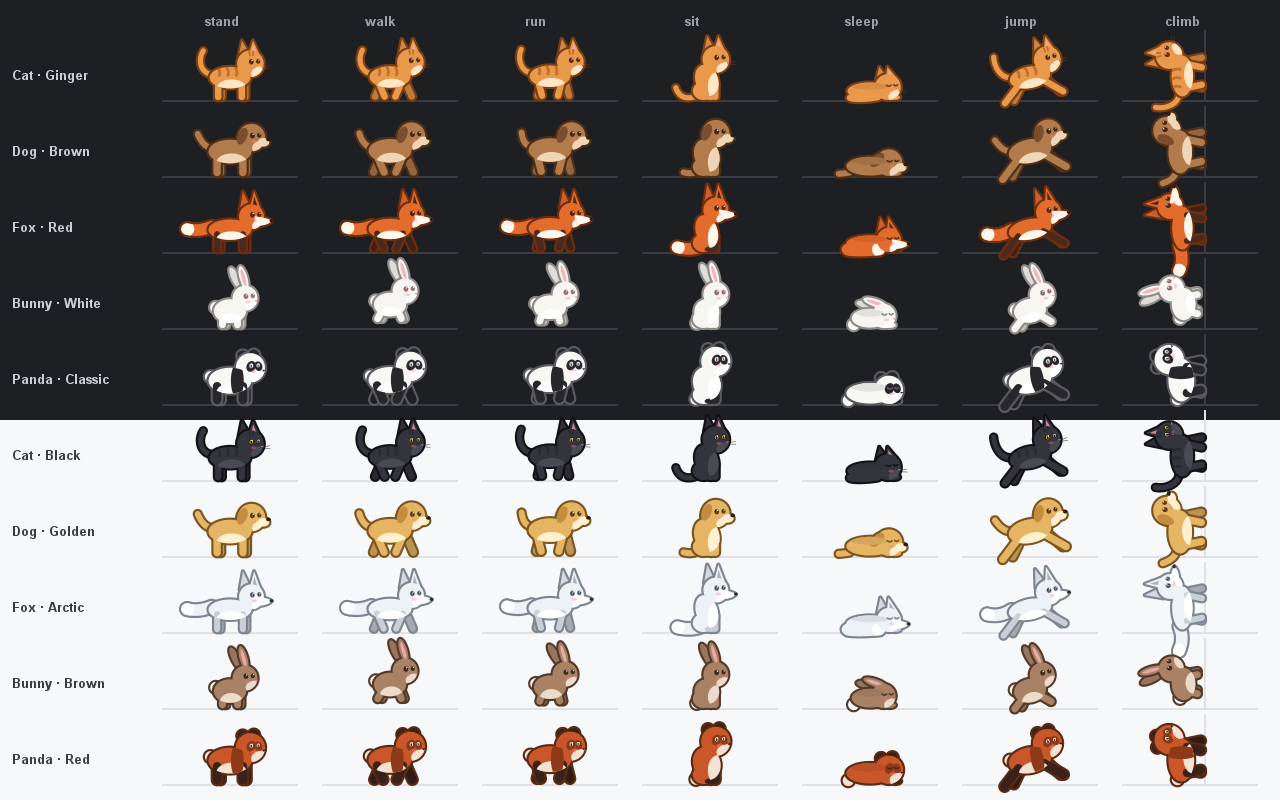
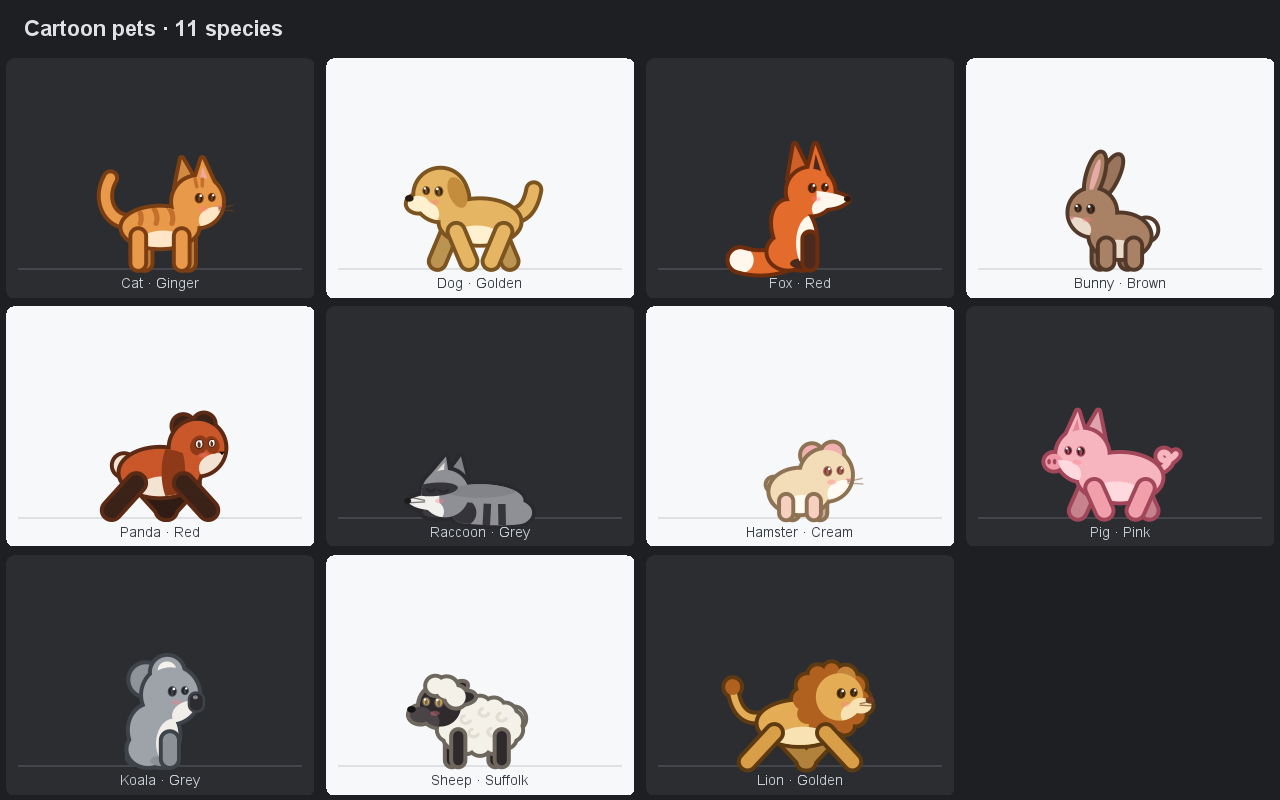
Show every species in the README and Marketplace gallery images
Regenerated docs/cartoon-pets.png (11 species) and docs/pixel-pets.png
(22 species) at 1280x800, the Marketplace minimum for screenshots.

diff --git a/README.md b/README.md
@@ -53,7 +53,7 @@ Works in IntelliJ-based IDEs 2025.2 and newer (IntelliJ IDEA, PhpStorm, PyCharm,
 
 | Cartoon pets | Pixel-art pets |
 | --- | --- |
-| ![Cartoon pets in all poses](docs/cartoon-pets.png) | ![Pixel-art pets in all poses](docs/pixel-pets.png) |
+| ![All 11 cartoon pets](docs/cartoon-pets.png) | ![All 22 pixel-art pets](docs/pixel-pets.png) |
 
 To hide all pets, untick **Tools | Code Gschpänli | Show Pets**. Pets also pause while *File | Power Save Mode* is on. The plugin collects no data and makes no network requests.
 
